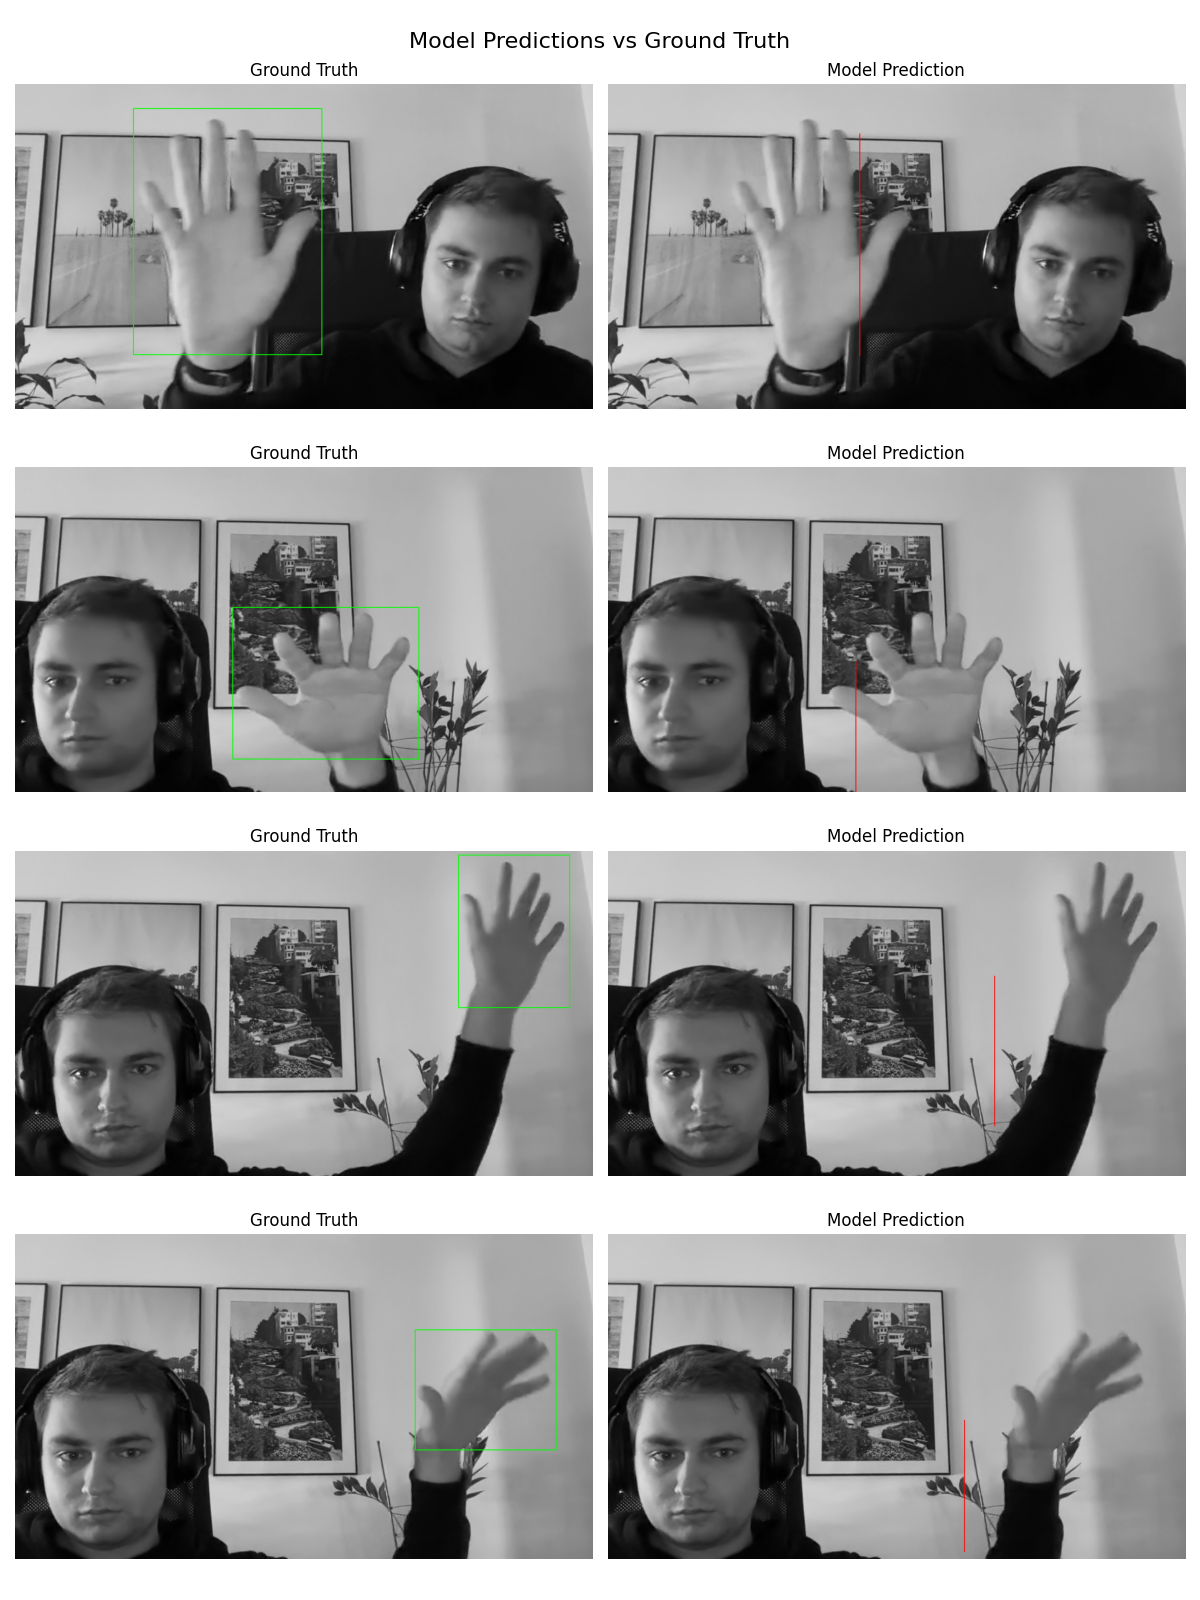
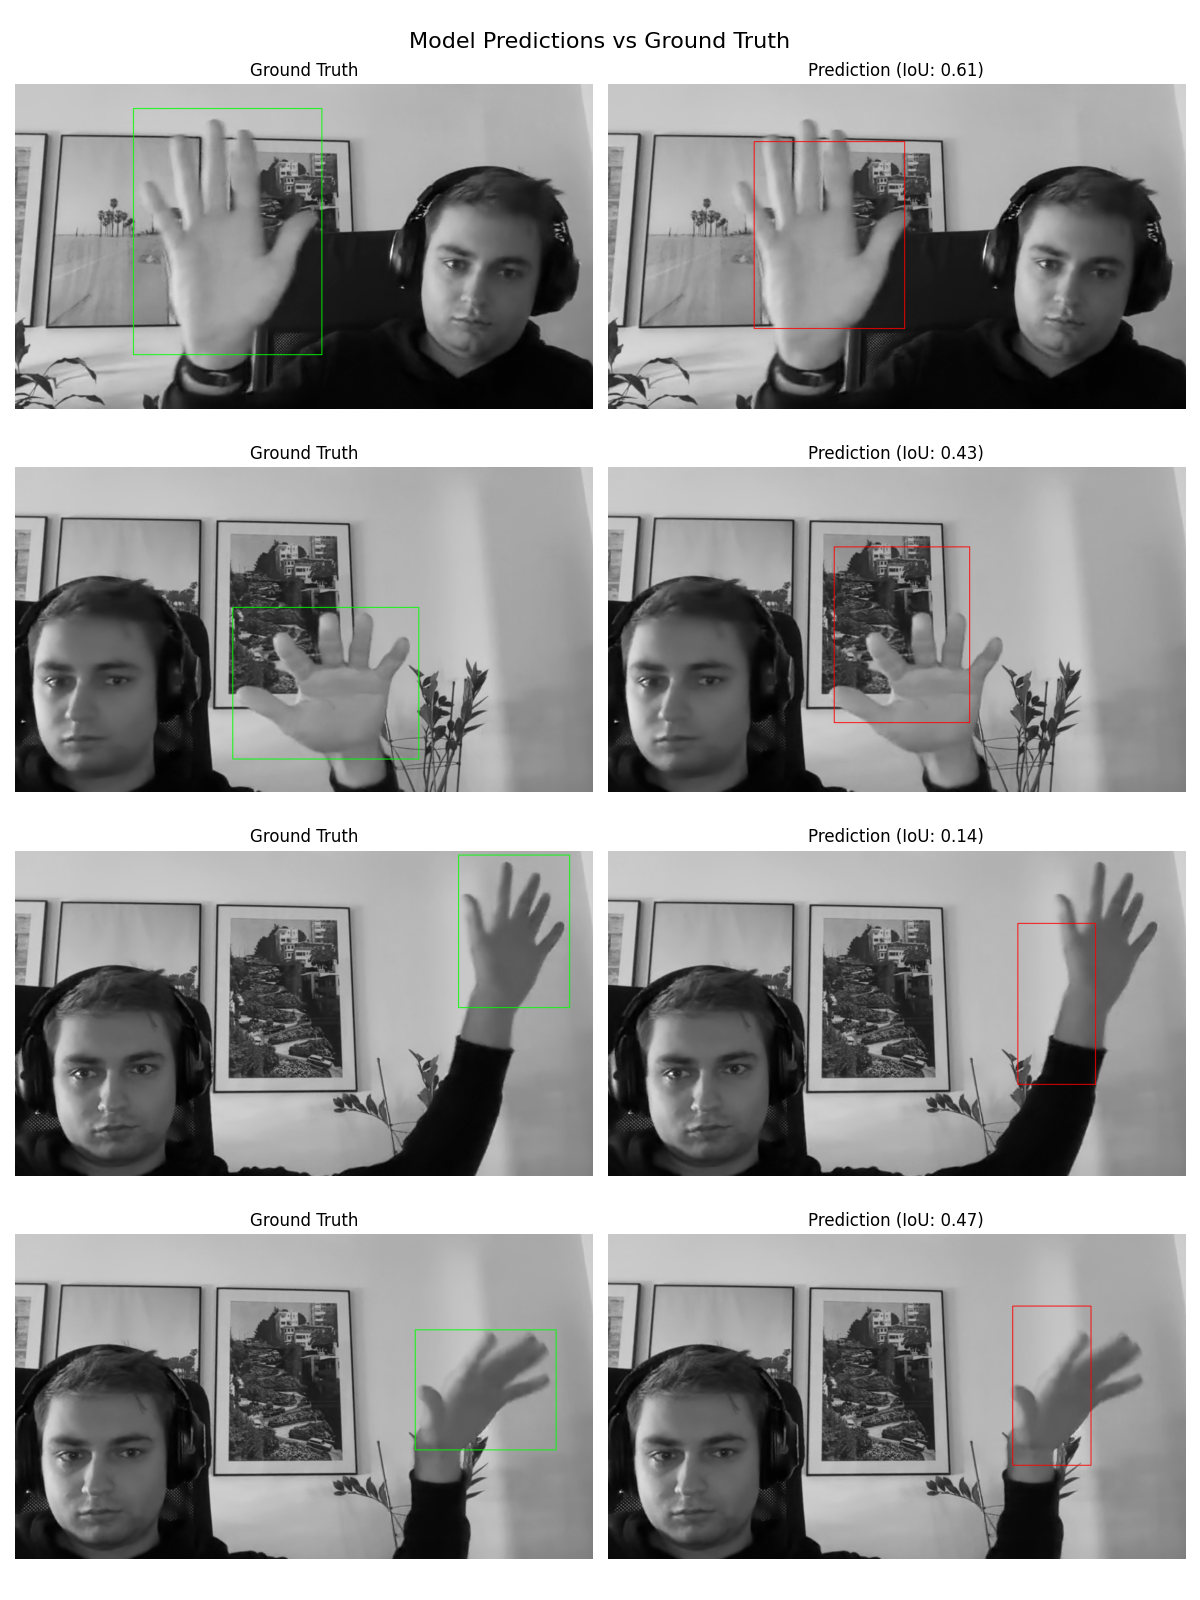
added iou

diff --git a/hand/training.py b/hand/training.py
@@ -8,10 +8,72 @@ from pathlib import Path
 from sklearn.model_selection import train_test_split
 import matplotlib.pyplot as plt
 
+def calculate_iou(y_true, y_pred):
+    """Calculate Intersection over Union between boxes"""
+    # Convert from [x, y, w, h] to [x1, y1, x2, y2]
+    true_x1 = y_true[0]
+    true_y1 = y_true[1]
+    true_x2 = y_true[0] + y_true[2]
+    true_y2 = y_true[1] + y_true[3]
+    
+    pred_x1 = y_pred[0]
+    pred_y1 = y_pred[1]
+    pred_x2 = y_pred[0] + y_pred[2]
+    pred_y2 = y_pred[1] + y_pred[3]
+    
+    # Calculate intersection
+    x_left = max(true_x1, pred_x1)
+    y_top = max(true_y1, pred_y1)
+    x_right = min(true_x2, pred_x2)
+    y_bottom = min(true_y2, pred_y2)
+    
+    if x_right < x_left or y_bottom < y_top:
+        return 0.0
+        
+    intersection_area = (x_right - x_left) * (y_bottom - y_top)
+    
+    # Calculate union
+    true_area = (true_x2 - true_x1) * (true_y2 - true_y1)
+    pred_area = (pred_x2 - pred_x1) * (pred_y2 - pred_y1)
+    union_area = true_area + pred_area - intersection_area
+    
+    iou = intersection_area / union_area if union_area > 0 else 0.0
+    return iou
+
+def custom_bbox_loss(width_weight=2.0):
+    """Custom loss function with higher weight for width prediction"""
+    def loss(y_true, y_pred):
+        # Coordinate loss (x, y)
+        coord_loss = tf.reduce_mean(tf.square(y_true[:, :2] - y_pred[:, :2]))
+        
+        # Width loss (weighted)
+        width_loss = width_weight * tf.reduce_mean(tf.square(y_true[:, 2] - y_pred[:, 2]))
+        
+        # Height loss
+        height_loss = tf.reduce_mean(tf.square(y_true[:, 3] - y_pred[:, 3]))
+        
+        # Total loss
+        total_loss = coord_loss + width_loss + height_loss
+        return total_loss
+    return loss
+
+def iou_metric(y_true, y_pred):
+    """IoU metric for model evaluation"""
+    iou_scores = tf.py_function(
+        lambda y_t, y_p: np.array([calculate_iou(t, p) for t, p in zip(y_t.numpy(), y_p.numpy())], dtype=np.float32),
+        [y_true, y_pred],
+        tf.float32
+    )
+    return tf.reduce_mean(iou_scores)
+
 def apply_augmentation(image, bbox):
     """Apply augmentations that preserve bounding box coordinates"""
     augmented_images = []
     augmented_boxes = []
+    
+    # Make sure image is 3D array (height, width, 1) for grayscale
+    if len(image.shape) == 2:
+        image = np.expand_dims(image, axis=-1)
     
     # Original image and box
     augmented_images.append(image)
@@ -41,6 +103,9 @@ def apply_augmentation(image, bbox):
         center = (image.shape[1] / 2, image.shape[0] / 2)
         M = cv2.getRotationMatrix2D(center, angle, 1.0)
         rotated = cv2.warpAffine(image, M, (image.shape[1], image.shape[0]))
+        # Maintain channel dimension
+        if len(rotated.shape) == 2:
+            rotated = np.expand_dims(rotated, axis=-1)
         
         # Adjust bbox for rotation
         # Convert bbox to corners
@@ -75,6 +140,10 @@ def apply_augmentation(image, bbox):
             augmented_images.append(rotated)
             augmented_boxes.append(new_bbox)
     
+    # Make sure all images have the same shape (height, width, 1)
+    augmented_images = [np.expand_dims(img, axis=-1) if len(img.shape) == 2 else img 
+                       for img in augmented_images]
+    
     return augmented_images, augmented_boxes
 
 def load_hand_dataset(dataset_path, image_size=(224, 224)):
@@ -86,19 +155,21 @@ def load_hand_dataset(dataset_path, image_size=(224, 224)):
     images = []
     boxes = []
     
+    print("Loading dataset...")
     
     # Load annotations
     with open(annotations_file, 'r') as f:
         annotations = json.load(f)
     
     total_images = len(annotations['images'])
+    print(f"Found {total_images} images in annotations")
     
     # Process each image and its annotation
     for idx, img_ann in enumerate(annotations['images'], 1):
         try:
             # Load image
             image_path = images_dir / img_ann['file_name']
-            image = cv2.imread(str(image_path))
+            image = cv2.imread(str(image_path), cv2.IMREAD_GRAYSCALE)  # Load as grayscale
             
             if image is None:
                 print(f"Failed to load image: {image_path}")
@@ -107,6 +178,7 @@ def load_hand_dataset(dataset_path, image_size=(224, 224)):
             # Preprocess image
             image = cv2.resize(image, image_size)
             image = image / 255.0  # Normalize
+            image = np.expand_dims(image, axis=-1)  # Add channel dimension
             
             # Get bbox
             bbox = img_ann['bbox']
@@ -116,6 +188,9 @@ def load_hand_dataset(dataset_path, image_size=(224, 224)):
             
             images.extend(aug_images)
             boxes.extend(aug_boxes)
+            
+            if idx % 100 == 0:
+                print(f"Processed {idx}/{total_images} images")
                 
         except Exception as e:
             print(f"Error processing {img_ann['file_name']}: {str(e)}")
@@ -124,38 +199,27 @@ def load_hand_dataset(dataset_path, image_size=(224, 224)):
     if len(images) == 0:
         raise ValueError("No images loaded from dataset")
     
+    print(f"Successfully loaded {len(images)} images (including augmentations)")
     return np.array(images), np.array(boxes)
 
-def create_model(input_shape=(224, 224, 3)):
-    """Create a CNN model for hand detection"""
-    # Load pre-trained MobileNetV2 as base model
-    base_model = tf.keras.applications.MobileNetV2(
-        input_shape=input_shape,
+def create_model(input_shape=(224, 224, 1)):
+    base_model = tf.keras.applications.ResNet50V2(
+        input_shape=(224, 224, 3),
         include_top=False,
         weights='imagenet'
     )
     
-    # Freeze the base model layers
-    base_model.trainable = False
-    
-    # Create the model
+    # Add more specific detection layers
     model = models.Sequential([
-        # Data augmentation layers
-        layers.RandomFlip("horizontal"),
-        layers.RandomRotation(0.1),
-        layers.RandomZoom(0.1),
-        
-        # Base model
+        layers.Lambda(lambda x: tf.image.grayscale_to_rgb(x)),
         base_model,
-        
-        # Additional layers for hand detection
+        layers.Conv2D(256, 3, activation='relu'),
         layers.GlobalAveragePooling2D(),
-        layers.Dense(128, activation='relu'),
+        layers.Dense(256, activation='relu'),
         layers.Dropout(0.5),
-        layers.Dense(64, activation='relu'),
-        layers.Dense(4, activation='sigmoid')  # bbox coordinates [x, y, width, height]
+        layers.Dense(128, activation='relu'),
+        layers.Dense(4, activation='sigmoid')
     ])
-    
     return model
 
 def train_model(dataset_path, epochs=65, batch_size=32):
@@ -174,22 +238,21 @@ def train_model(dataset_path, epochs=65, batch_size=32):
     # Create and compile model
     model = create_model()
     model.compile(
-        optimizer=tf.keras.optimizers.Adam(learning_rate=0.001),
-        loss='mse',
-        metrics=['accuracy', 'mae']
+        optimizer=tf.keras.optimizers.legacy.Adam(learning_rate=0.001),
+        loss=custom_bbox_loss(width_weight=2.0),
+        metrics=['accuracy', 'mae', iou_metric]
     )
     
-    # Create callbacks with adjusted parameters
+    # Create callbacks
     callbacks = [
-        # Save best model weights
         tf.keras.callbacks.ModelCheckpoint(
             'best_hand_detection_model.keras',
             save_best_only=True,
-            save_weights_only=True,  # Only save weights
-            monitor='val_loss',
+            save_weights_only=True,
+            monitor='val_iou_metric',
+            mode='max',
             verbose=1
         ),
-        # Reduce learning rate with adjusted parameters
         tf.keras.callbacks.ReduceLROnPlateau(
             monitor='val_loss',
             factor=0.5,
@@ -200,6 +263,7 @@ def train_model(dataset_path, epochs=65, batch_size=32):
     ]
     
     # Train model
+    print("Training model...")
     history = model.fit(
         X_train, y_train,
         epochs=epochs,
@@ -212,8 +276,18 @@ def train_model(dataset_path, epochs=65, batch_size=32):
     # Plot training history
     plt.figure(figsize=(15, 5))
     
+    # Plot IoU
+    plt.subplot(1, 3, 1)
+    plt.plot(history.history['iou_metric'], label='Training IoU')
+    plt.plot(history.history['val_iou_metric'], label='Validation IoU')
+    plt.title('Model IoU')
+    plt.xlabel('Epoch')
+    plt.ylabel('IoU')
+    plt.legend(loc='lower right')
+    plt.grid(True)
+    
     # Plot accuracy
-    plt.subplot(1, 2, 1)
+    plt.subplot(1, 3, 2)
     plt.plot(history.history['accuracy'], label='Training Accuracy')
     plt.plot(history.history['val_accuracy'], label='Validation Accuracy')
     plt.title('Model Accuracy')
@@ -223,7 +297,7 @@ def train_model(dataset_path, epochs=65, batch_size=32):
     plt.grid(True)
     
     # Plot loss
-    plt.subplot(1, 2, 2)
+    plt.subplot(1, 3, 3)
     plt.plot(history.history['loss'], label='Training Loss')
     plt.plot(history.history['val_loss'], label='Validation Loss')
     plt.title('Model Loss')
@@ -237,30 +311,6 @@ def train_model(dataset_path, epochs=65, batch_size=32):
     plt.close()
     
     return model, history
-
-def predict_on_image(model, image_path, image_size=(224, 224)):
-    """Make prediction on a single image"""
-    # Read and preprocess image
-    image = cv2.imread(image_path)
-    image_display = image.copy()
-    image = cv2.resize(image, image_size)
-    image = image / 255.0
-    
-    # Make prediction
-    prediction = model.predict(np.expand_dims(image, axis=0))[0]
-    
-    # Denormalize coordinates
-    height, width = image_display.shape[:2]
-    x, y, w, h = prediction
-    x = int(x * width)
-    y = int(y * height)
-    w = int(w * width)
-    h = int(h * height)
-    
-    # Draw bounding box
-    cv2.rectangle(image_display, (x, y), (x + w, y + h), (0, 255, 0), 2)
-    
-    return image_display
 
 def plot_predictions(model, dataset_path, num_examples=4, image_size=(224, 224)):
     """Plot model predictions vs ground truth"""
@@ -281,7 +331,7 @@ def plot_predictions(model, dataset_path, num_examples=4, image_size=(224, 224))
     
     for idx, img_ann in enumerate(selected_images):
         image_path = images_dir / img_ann['file_name']
-        image = cv2.imread(str(image_path))
+        image = cv2.imread(str(image_path), cv2.IMREAD_GRAYSCALE)
         if image is None:
             continue
             
@@ -294,13 +344,15 @@ def plot_predictions(model, dataset_path, num_examples=4, image_size=(224, 224))
         true_h = int(true_bbox[3] * h)
         
         ground_truth = image.copy()
+        ground_truth = cv2.cvtColor(ground_truth, cv2.COLOR_GRAY2BGR)
         cv2.rectangle(ground_truth, (true_x, true_y), 
                      (true_x + true_w, true_y + true_h), 
                      (0, 255, 0), 2)
         
         # Model prediction
         image_resized = cv2.resize(image, image_size)
-        image_normalized = image_resized / 255.0
+        image_normalized = (image_resized / 255.0).astype(np.float32)
+        image_normalized = np.expand_dims(image_normalized, axis=-1)  # Add channel dimension
         prediction = model.predict(np.expand_dims(image_normalized, axis=0), verbose=0)[0]
         
         pred_x = int(prediction[0] * w)
@@ -308,27 +360,53 @@ def plot_predictions(model, dataset_path, num_examples=4, image_size=(224, 224))
         pred_w = int(prediction[2] * w)
         pred_h = int(prediction[3] * h)
         
-        prediction_image = image.copy()
+        prediction_image = cv2.cvtColor(image.copy(), cv2.COLOR_GRAY2BGR)
         cv2.rectangle(prediction_image, (pred_x, pred_y), 
                      (pred_x + pred_w, pred_y + pred_h), 
                      (0, 0, 255), 2)
         
-        # Convert BGR to RGB for matplotlib
-        ground_truth = cv2.cvtColor(ground_truth, cv2.COLOR_BGR2RGB)
-        prediction_image = cv2.cvtColor(prediction_image, cv2.COLOR_BGR2RGB)
+        # Calculate IoU for this prediction
+        iou = calculate_iou(true_bbox, prediction)
         
         # Plot
-        axes[idx, 0].imshow(ground_truth)
-        axes[idx, 0].set_title('Ground Truth')
+        axes[idx, 0].imshow(ground_truth[..., ::-1])  # Convert BGR to RGB for matplotlib
+        axes[idx, 0].set_title(f'Ground Truth')
         axes[idx, 0].axis('off')
         
-        axes[idx, 1].imshow(prediction_image)
-        axes[idx, 1].set_title('Model Prediction')
+        axes[idx, 1].imshow(prediction_image[..., ::-1])  # Convert BGR to RGB for matplotlib
+        axes[idx, 1].set_title(f'Prediction (IoU: {iou:.2f})')
         axes[idx, 1].axis('off')
     
     plt.tight_layout()
     plt.savefig('prediction_examples.png')
     plt.close()
+
+def predict_on_image(model, image_path, image_size=(224, 224)):
+    """Make prediction on a single image"""
+    # Read and preprocess image
+    image = cv2.imread(image_path, cv2.IMREAD_GRAYSCALE)
+    image_display = cv2.cvtColor(image.copy(), cv2.COLOR_GRAY2BGR)
+    
+    # Preprocess for prediction
+    image_resized = cv2.resize(image, image_size)
+    image_normalized = (image_resized / 255.0).astype(np.float32)
+    image_normalized = np.expand_dims(image_normalized, axis=-1)  # Add channel dimension
+    
+    # Make prediction
+    prediction = model.predict(np.expand_dims(image_normalized, axis=0), verbose=0)[0]
+    
+    # Denormalize coordinates
+    height, width = image.shape[:2]
+    x, y, w, h = prediction
+    x = int(x * width)
+    y = int(y * height)
+    w = int(w * width)
+    h = int(h * height)
+    
+    # Draw bounding box
+    cv2.rectangle(image_display, (x, y), (x + w, y + h), (0, 255, 0), 2)
+    
+    return image_display
 
 if __name__ == "__main__":
     # Set random seed for reproducibility
@@ -336,13 +414,13 @@ if __name__ == "__main__":
     np.random.seed(42)
     
     # Set path to your dataset
-    dataset_path = "hand_dataset"  # Update this path if needed
+    dataset_path = "hand_dataset"
     
     # Train model
     model, training_history = train_model(dataset_path)
     
-    # Save final model with complete architecture and weights
+    # Save final model
     model.save('final_hand_detection_model.keras', save_format='keras_v3')
-
+    
     # Plot prediction examples
     plot_predictions(model, dataset_path)
